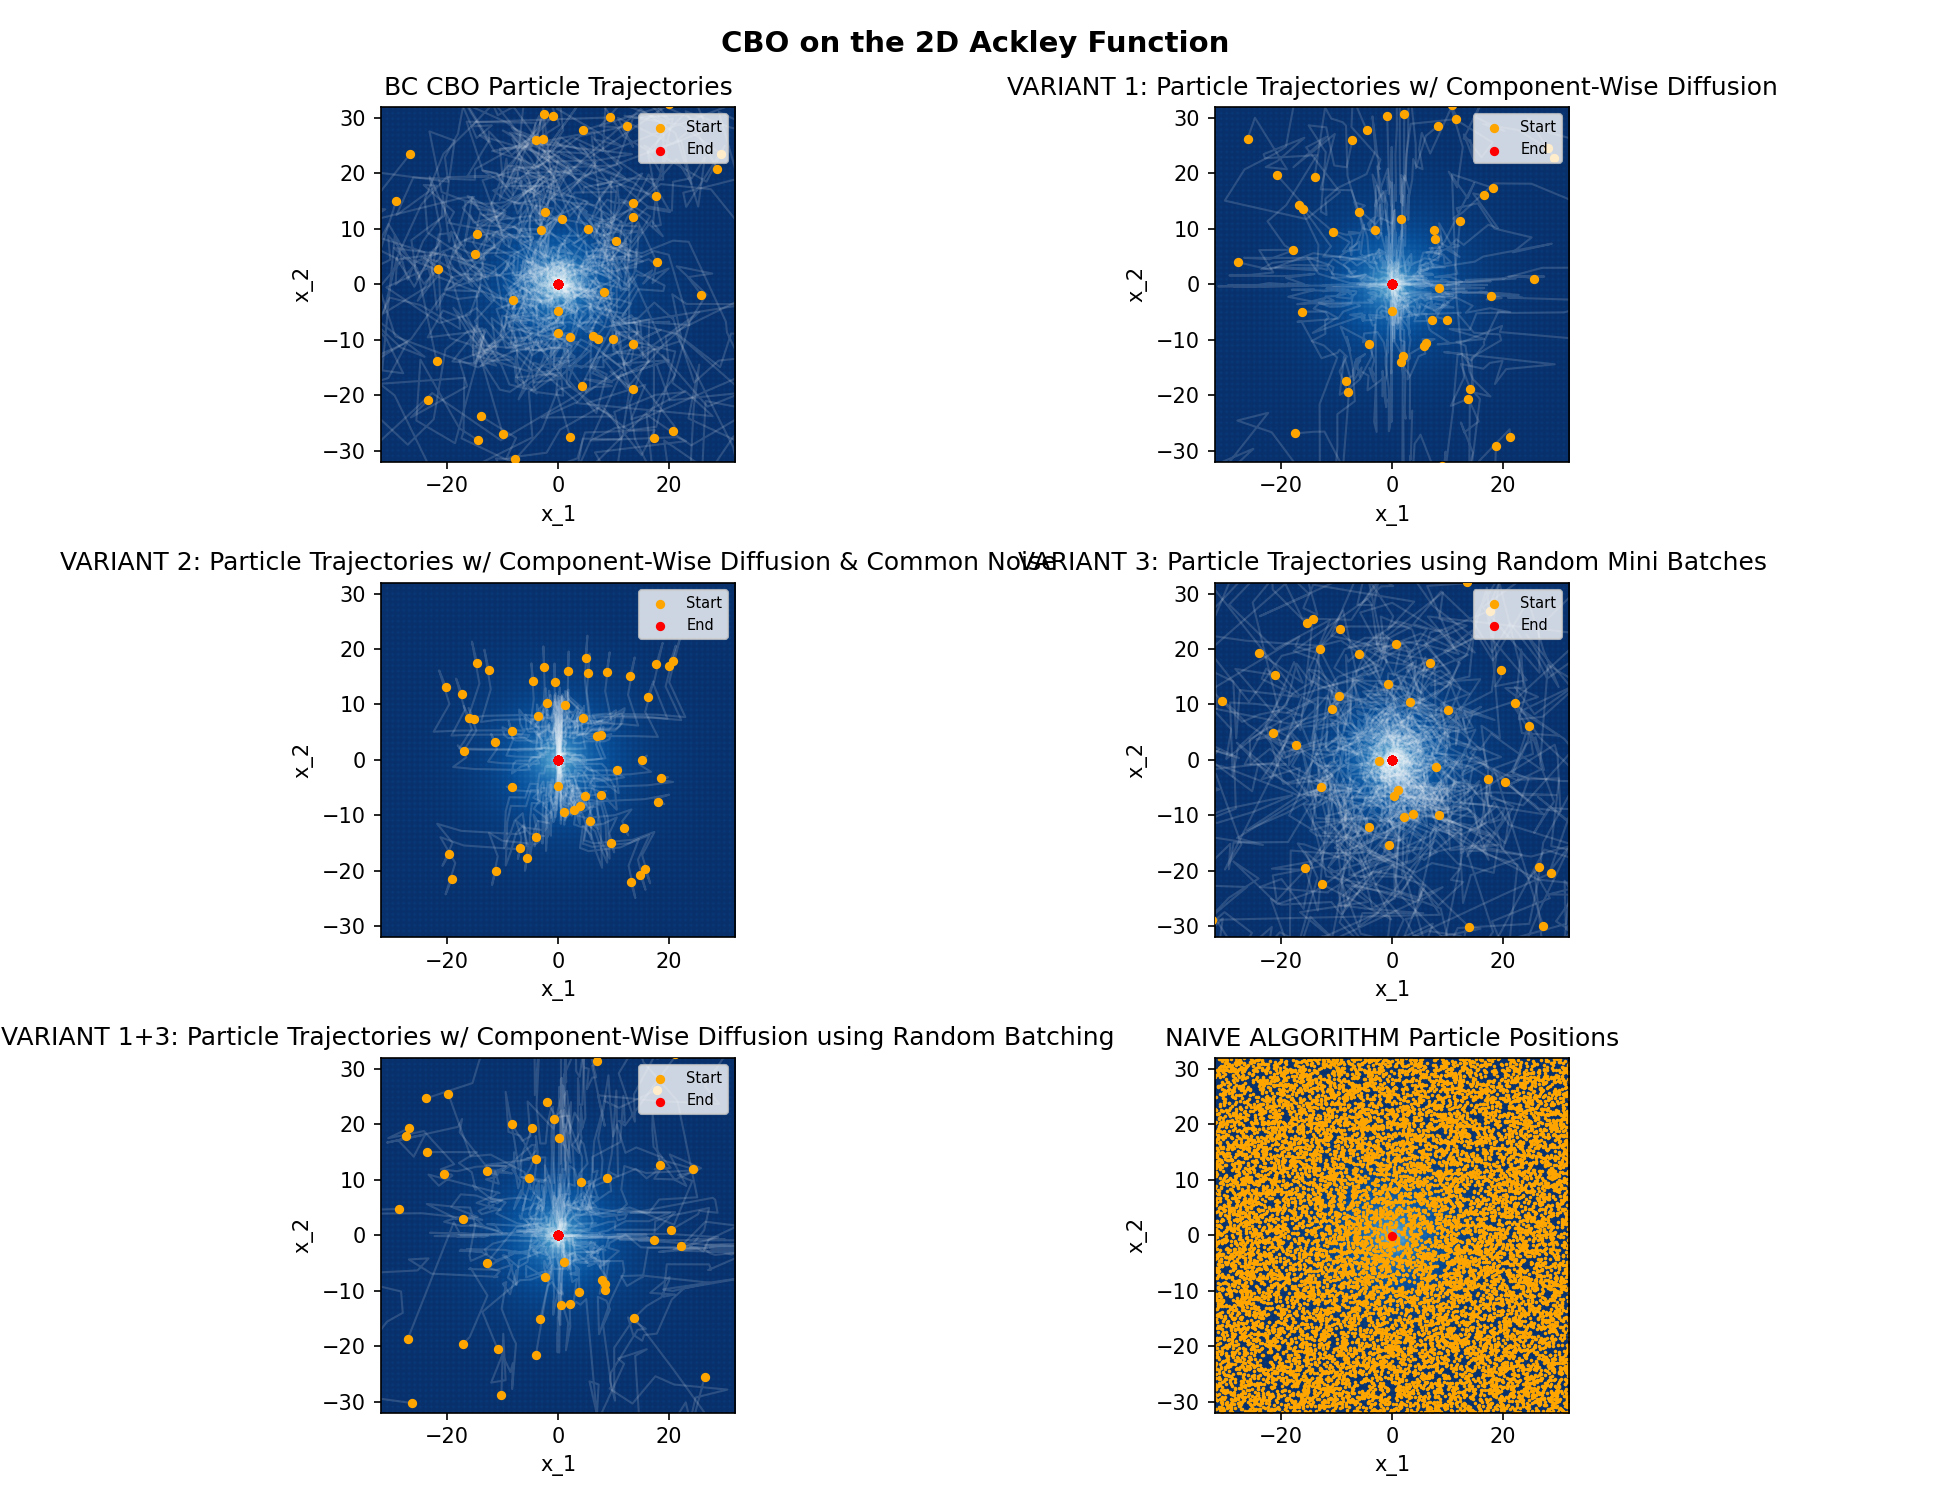
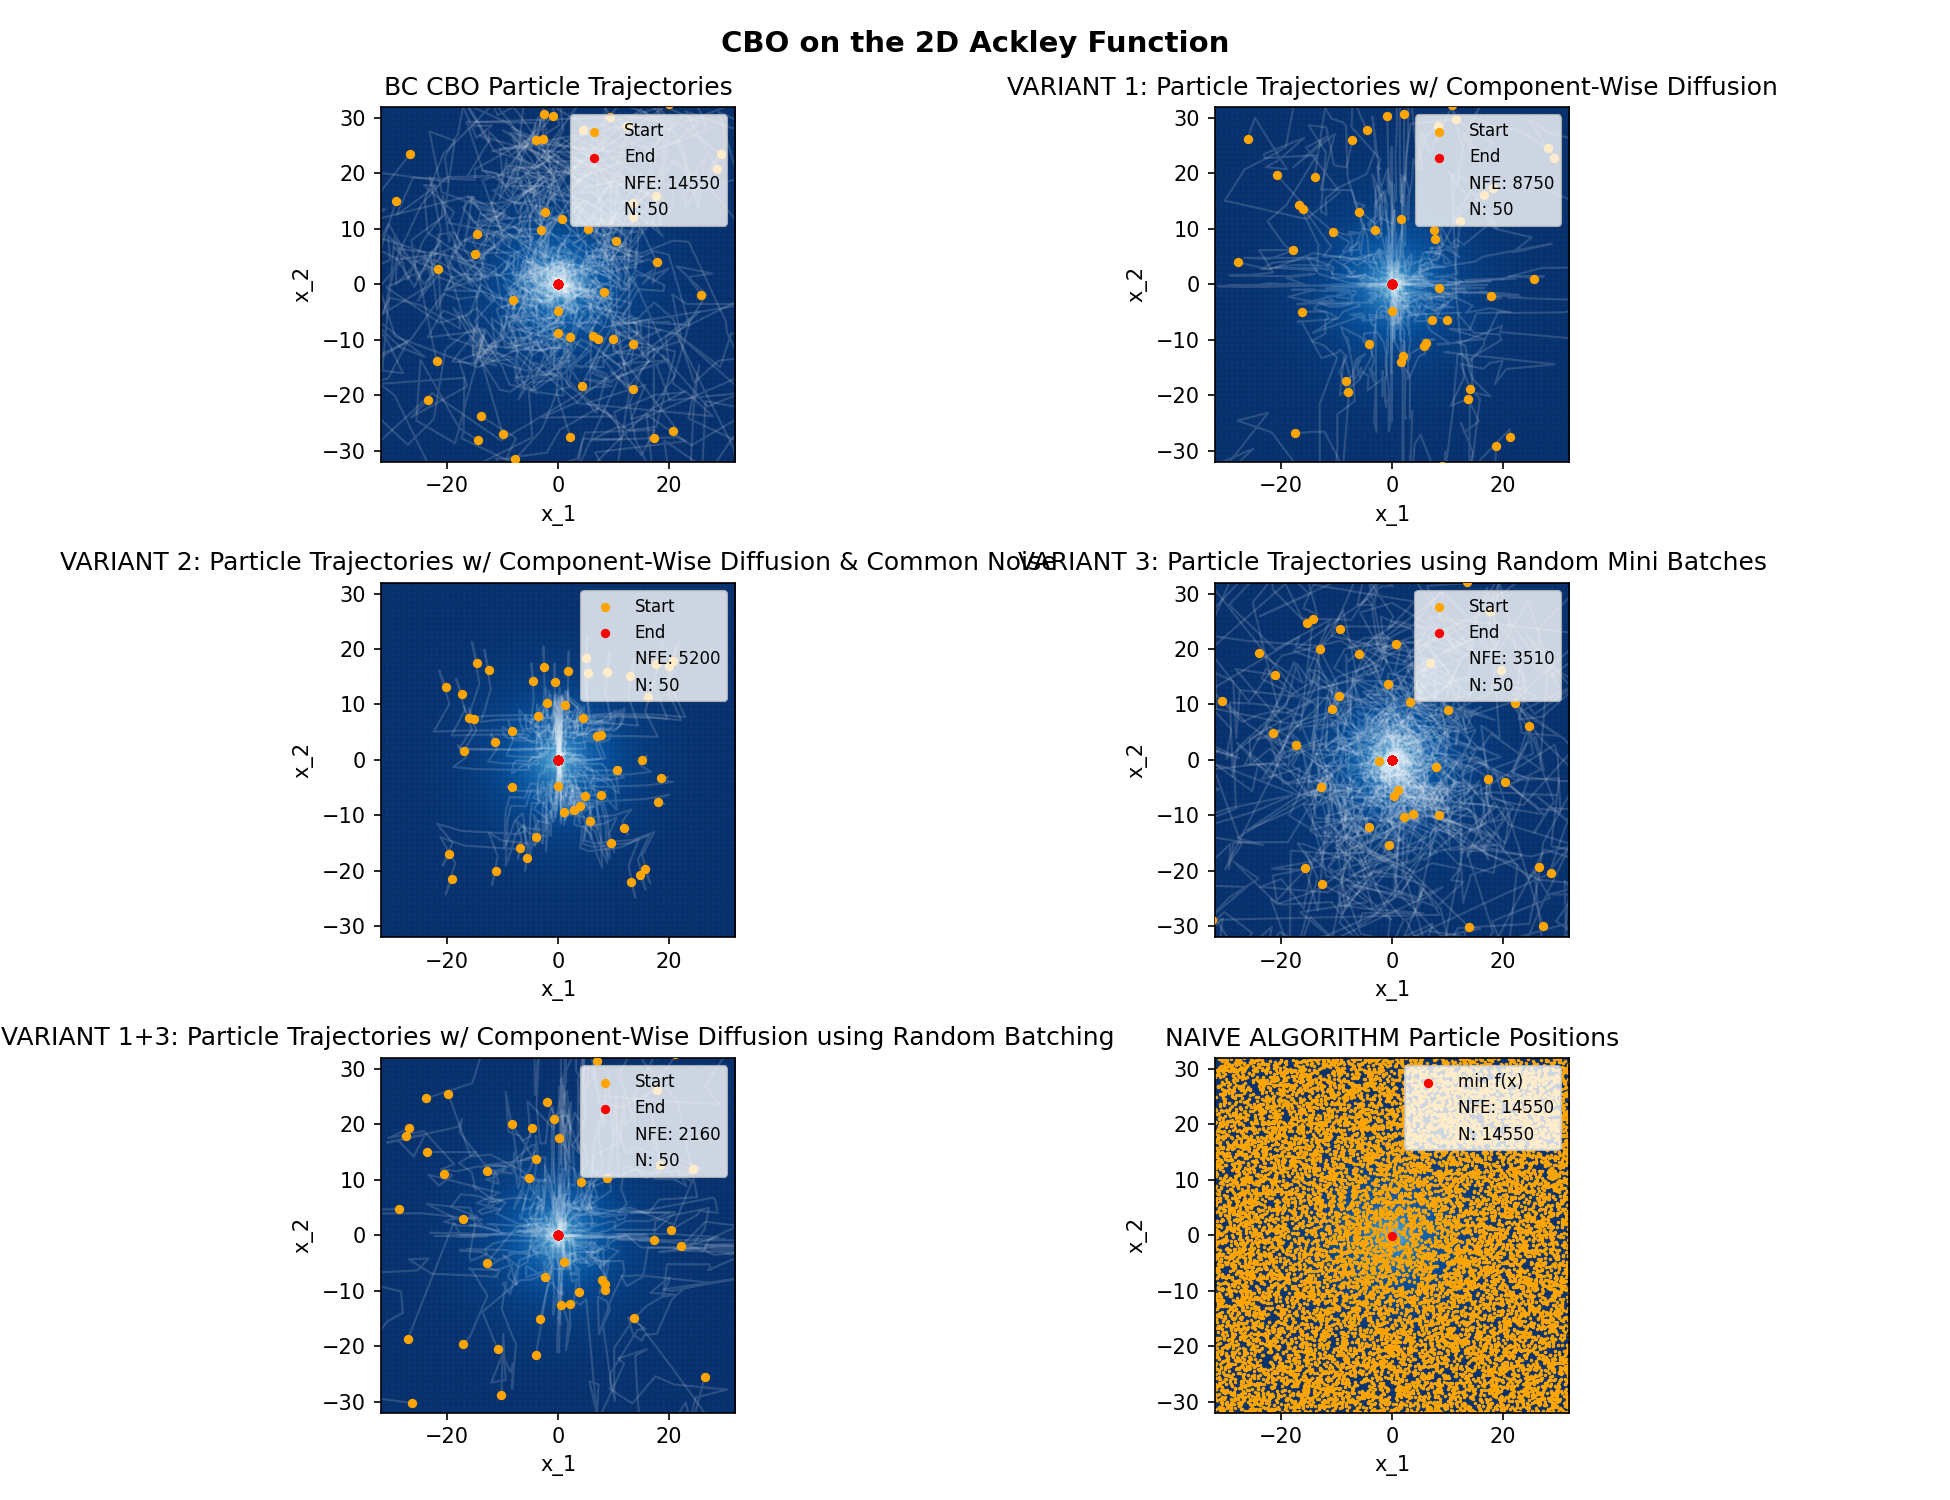
Algorithm comparison parameters

diff --git a/trajectories_plot.py b/trajectories_plot.py
@@ -1,6 +1,7 @@
 import numpy as np
 import matplotlib.pyplot as plt
 import matplotlib.colors as mcolors
+import matplotlib.patches as mpatches
 
 from bc_algorithms import ackley, cbo, naive
 from variant_1 import component_wise_diff
@@ -21,13 +22,14 @@ def grid(res):
     return X, Y, Z
 
 # TRAJECTORY PLOT
-def particle_hist(ax, particle_hist):
+def particle_hist(ax, particle_hist, m_size=50):
     _, _, Z = grid(res=300)
 
     # draw 2d array heatmap
     ax.imshow(Z, extent=[-32, 32, -32, 32], origin="lower", cmap="Blues", aspect="equal", norm=mcolors.PowerNorm(gamma=0.4,vmin=0,vmax=22))
 
     n_particles = particle_hist.shape[1]
+    n_iters = len(particle_hist)
 
     for i in range(n_particles):
         traj = particle_hist[:,i,:] # draw one trajectory line per particle
@@ -43,7 +45,12 @@ def particle_hist(ax, particle_hist):
     # ax.set_title("Particle Trajectories")
     ax.set_xlabel("x_1"); ax.set_ylabel("x_2")
     ax.set_xlim(-32, 32); ax.set_ylim(-32, 32)
-    ax.legend(fontsize=7, loc="upper right")
+
+    # add info patches to legend
+    handles, labels = ax.get_legend_handles_labels()
+    info1 = mpatches.Patch(color='none', label=f'NFE: {m_size*n_iters}')
+    info2 = mpatches.Patch(color='none', label=f'N: {n_particles}')
+    ax.legend(handles=handles + [info1, info2], fontsize=8, loc="upper right")
 
 # NAIVE POINT PLOT
 def naive_part_plot(ax):
@@ -58,6 +65,11 @@ def naive_part_plot(ax):
     ax.set_title("NAIVE ALGORITHM Particle Positions")
     ax.set_xlabel("x_1"); ax.set_ylabel("x_2")
     ax.set_xlim(-32, 32); ax.set_ylim(-32, 32)
+    # add info patches to legend
+    handles, labels = ax.get_legend_handles_labels()
+    info1 = mpatches.Patch(color='none', label=f'NFE: {n_particles}')
+    info2 = mpatches.Patch(color='none', label=f'N: {n_particles}')
+    ax.legend(handles=handles + [info1, info2], fontsize=8, loc="upper right")
 
 
 def main():
@@ -87,9 +99,9 @@ def main():
     ax2.set_title("VARIANT 1: Particle Trajectories w/ Component-Wise Diffusion")
     particle_hist(ax3, var2_part_hist)
     ax3.set_title("VARIANT 2: Particle Trajectories w/ Component-Wise Diffusion & Common Noise")
-    particle_hist(ax4, var3_part_hist)
+    particle_hist(ax4, var3_part_hist, m_size=10)
     ax4.set_title("VARIANT 3: Particle Trajectories using Random Mini Batches")
-    particle_hist(ax5, var13_part_hist)
+    particle_hist(ax5, var13_part_hist, m_size=10)
     ax5.set_title("VARIANT 1+3: Particle Trajectories w/ Component-Wise Diffusion using Random Batching")
 
     naive_part_plot(ax6)
